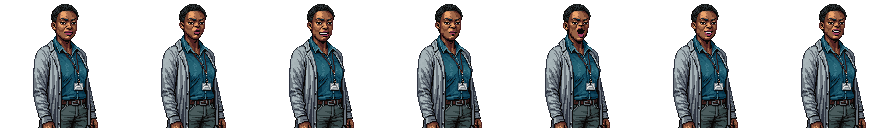
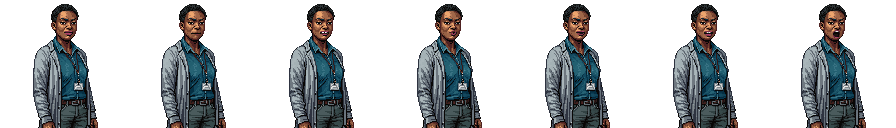
pixellab pipeline: inpaint mouth shapes on the bust for lip sync
visemes now defaults to --method inpaint: one /inpaint-image-pro-flash
call per named shape, masked to the mouth (intersected with the bust's
opaque pixels), so the nose, jaw and the mouth's position on a
three-quarter head are kept. /vocal-animation redrew the whole lower
face as if front-on. The mask is guessed from lip colour or read off a
gridded preview; pick --swap mixes shapes from re-rolled variants.

Bernie's viseme sheet regenerated this way (54 generations, plus a 6-generation trial).

diff --git a/tools/pixellab_pipeline.py b/tools/pixellab_pipeline.py
@@ -20,7 +20,8 @@ Everything for one character lives in a work directory (default tmp/pixellab/<na
   concept.png         the Gemini portrait this run started from
   bust/b01.png ...    stage 1 candidates, plus bust/contact.png
   talk/t01/f00.png .. stage 2 candidates (one folder per variant), plus talk/contact.png
-  visemes/m01/*.png   optional stage 2 alternative: named mouth shapes from /vocal-animation
+  visemes/i01/*.png   optional stage 2 alternative: named mouth shapes, inpainted on the mouth
+                      (visemes/m01 when made with --method vocal)
   character/c01/*.png stage 3 candidates (8 rotations each), plus character/contact.png
 
 Typical run (see .claude/skills/pixellab-character-pipeline/SKILL.md for the full workflow):
@@ -59,7 +60,7 @@ from datetime import datetime, timezone
 from pathlib import Path
 
 import requests
-from PIL import Image, ImageDraw
+from PIL import Image, ImageChops, ImageDraw
 
 API = "https://api.pixellab.ai/v2"
 REPO = Path(__file__).resolve().parent.parent
@@ -620,14 +621,22 @@ def head_box(bust, side):
 
 
 def cmd_visemes(args):
-    """Named mouth shapes (AA, EE, OO ...) from /vocal-animation, for comparison or lip sync.
+    """Named mouth shapes for lip sync: inpainted on the bust (default) or from /vocal-animation.
 
-    --crop sends only the head, so the face fills more of the frame the model sees. Each
-    returned mouth is pasted back into a full-size copy of the bust, so the results drop
-    straight into `pick ... --frames m01:<id>` like any other talk frame.
+    --method inpaint (default, variants iNN): one /inpaint-image-pro-flash call per shape,
+    masked to the mouth only, so the nose, jaw and the mouth's position on a turned head stay
+    exactly as drawn. About 6 generations per shape.
+
+    --method vocal (variants mNN): /vocal-animation redraws the whole lower face. It assumes a
+    face looking straight at the camera, so on three-quarter busts it tends to lose the nose
+    and move the mouth towards the centre. --crop sends only the head. Each returned mouth is
+    pasted back into a full-size copy of the bust, so the results drop straight into
+    `pick ... --frames m01:<id>` like any other talk frame.
     """
     run = Run(args.name, args.workdir).require()
     bust = Image.open(run.dir / "bust" / f"{run.picked('bust')}.png").convert("RGBA")
+    if args.method == "inpaint":
+        return visemes_inpaint(run, bust, args)
     crop = None
     if args.crop == "auto":
         crop = head_box(bust, args.crop_size)
@@ -652,22 +661,204 @@ def cmd_visemes(args):
     report_stage(run, "talk")
 
 
-def write_viseme_sheet(run, job, assets, backup, face=None):
+# What each shape must look like, matching the letter classes in lip-sync.js.
+MOUTH_SHAPES = {
+    "closed": "full lips pressed together, as when saying 'm', 'b' or 'p': both lips keep their colour "
+              "and thickness, meeting in one dark line, no gap or teeth",
+    "teeth": "lips parted to show the upper front teeth as a clear row of white pixels, lower lip tucked "
+             "just under them, as when saying 'f', 'v' or 's'",
+    "round": "lips pushed forward into a small rounded 'o', as when saying 'oo'; a small dark round opening, "
+             "narrower than the resting mouth",
+    "small_open": "lips parted by a small dark opening about two pixels tall, clearly more open than a "
+                  "closed mouth, no teeth showing",
+    "medium_open": "mouth half open as when saying 'eh': a dark mouth interior with a hint of upper teeth",
+    "wide_open": "mouth open wide as when saying 'ah': jaw dropped, a tall dark mouth interior, "
+                 "at most a sliver of upper teeth",
+}
+MOUTH_KEEP = ("Only the mouth changes. Keep the same lip colour, skin tone, outline and pixel-art shading; "
+              "the head is turned, so the mouth stays exactly where it is, not centred.")
+
+
+def suggest_mouth_box(bust):
+    """Guess the mouth mask from lip-coloured pixels (red/pink) in the upper half of the figure.
+
+    Only a starting point: dark or skin-toned lips aren't found, so always check the preview
+    and pass --mouth x0,y0,x1,y1 when it's wrong.
+    """
+    import numpy as np
+    a = np.asarray(bust, dtype=np.int32)
+    r, g, b, al = a[..., 0], a[..., 1], a[..., 2], a[..., 3]
+    rows = np.nonzero((al > 0).any(axis=1))[0]
+    if not len(rows):
+        return None
+    top = rows[0]
+    lips = (al > 0) & (r - g > 60) & (b - g > 5) & (r > 120)
+    lips[: top + 8] = False  # skip hair/forehead
+    lips[top + (rows[-1] - top) // 2:] = False  # upper half only: no ties, lanyards or badges
+    ys, xs = np.nonzero(lips)
+    if len(xs) < 4 or xs.max() - xs.min() > 24:
+        return None
+    return (int(xs.min()) - 2, int(ys.min()) - 1, int(xs.max()) + 3, int(ys.max()) + 4)
+
+
+def mouth_box_preview(run, bust, box, out_name="mouth_box_preview.png", outline=True):
+    """A gridded close-up around box, labelled with pixel coordinates, the box outlined as the mask."""
+    x0, y0, x1, y1 = box
+    pad, z = 12, 12
+    cx0, cy0 = max(0, x0 - pad), max(0, y0 - pad - 6)
+    cx1, cy1 = min(bust.width, x1 + pad), min(bust.height, y1 + pad)
+    crop = bust.crop((cx0, cy0, cx1, cy1)).resize(((cx1 - cx0) * z, (cy1 - cy0) * z), Image.NEAREST)
+    im = Image.new("RGBA", crop.size, "white")
+    im.paste(crop, (0, 0), crop)
+    d = ImageDraw.Draw(im)
+    for x in range(cx0, cx1 + 1):
+        if x % 5 == 0:
+            d.line([((x - cx0) * z, 0), ((x - cx0) * z, im.height)], fill=(0, 180, 255, 120))
+            d.text(((x - cx0) * z + 2, 2), str(x), fill=(255, 0, 0, 255))
+    for y in range(cy0, cy1 + 1):
+        if y % 5 == 0:
+            d.line([(0, (y - cy0) * z), (im.width, (y - cy0) * z)], fill=(0, 180, 255, 120))
+            d.text((2, (y - cy0) * z + 2), str(y), fill=(255, 0, 0, 255))
+    if outline:
+        d.rectangle([(x0 - cx0) * z, (y0 - cy0) * z, (x1 - cx0) * z - 1, (y1 - cy0) * z - 1],
+                    outline=(255, 0, 0, 255), width=2)
+    path = run.dir / "visemes" / out_name
+    path.parent.mkdir(parents=True, exist_ok=True)
+    im.save(path)
+    return path
+
+
+def mouth_mask(bust, box):
+    """White inside the box where the bust is opaque, so a box corner hanging over the
+    background can't gain stray pixels around the chin."""
+    mask = Image.new("L", bust.size, 0)
+    ImageDraw.Draw(mask).rectangle([box[0], box[1], box[2] - 1, box[3] - 1], fill=255)
+    return ImageChops.multiply(mask, bust.split()[3].point(lambda a: 255 if a else 0))
+
+
+def visemes_inpaint(run, bust, args):
+    if args.mouth:
+        box = tuple(int(v) for v in args.mouth.split(","))
+        how = "--mouth"
+    else:
+        box = suggest_mouth_box(bust)
+        how = "guessed from lip colour"
+        if not box:
+            # No red/pink lips (most of the cast): show a labelled grid over the lower face
+            # to read the mouth coordinates from, drawn with no mask.
+            hx0, hy0, hx1, hy1 = head_box(bust, 48)
+            grid = mouth_box_preview(run, bust, (hx0 + 12, hy0 + 12, hx1 - 12, hy1 - 6),
+                                     "face_grid.png", outline=False)
+            sys.exit(f"couldn't find the lips by colour. Read {grid} (pixel coordinates every 5px) "
+                     "and pass --mouth x0,y0,x1,y1: the lips plus 3-4 rows "
+                     "below them, the nostrils outside.")
+    preview = mouth_box_preview(run, bust, box)
+    print(f"mouth mask {box} ({how}); preview: {preview}\n"
+          "  check: lips and the few rows below them inside, nose tip and eyes outside.")
+    shapes = args.shapes.split(",") if args.shapes else list(MOUTH_SHAPES)
+    unknown = [s for s in shapes if s not in MOUTH_SHAPES]
+    if unknown:
+        sys.exit(f"unknown shape(s) {unknown}; choose from {list(MOUTH_SHAPES)}")
+    mask = mouth_mask(bust, box).convert("RGB")
+    subject = args.subject or "the same character"
+
+    def body(shape):
+        b = {"image": b64_image(bust), "mask_image": b64_image(mask),
+             "description": f"{subject}, {MOUTH_SHAPES[shape]}. {MOUTH_KEEP}",
+             "output_method": "Modify current layer", "no_background": False}
+        if args.seed is not None:
+            b["seed"] = args.seed
+        return b
+
+    if args.dry_run:
+        return dry_run("/inpaint-image-pro-flash", body(shapes[0]), n=len(shapes),
+                       note=f"one call per shape ({', '.join(shapes)}), ~6 generations each")
+    api = PixelLab()
+    vid = run.next_ids("visemes", "i", 1)[0]
+    ids = {}
+    for shape in shapes:  # 6 jobs fit in the 8 concurrent slots
+        ids[shape] = api.post("/inpaint-image-pro-flash", body(shape))["background_job_id"]
+    job = run.add_job(stage="visemes", variant=vid, endpoint="/inpaint-image-pro-flash",
+                      job_id=",".join(ids.values()), job_ids=ids,
+                      params={"mouth": list(box), "shapes": shapes, "subject": subject, "seed": args.seed})
+    print(f"submitted {vid}: {len(ids)} inpaint jobs ({', '.join(shapes)})")
+    collect(run, api, "visemes")
+    report_stage(run, "talk")
+
+
+def save_inpaint_visemes(run, api, job):
+    """Wait for each shape's job; keep only the masked box, pasted onto the bust.
+
+    Pro Flash preserves unmasked pixels already; the paste makes that a guarantee, so the
+    sheet can never pick up a stray change elsewhere on the face.
+    """
+    out = run.dir / "visemes" / job["variant"]
+    out.mkdir(parents=True, exist_ok=True)
+    bust = Image.open(run.dir / "bust" / f"{run.picked('bust')}.png").convert("RGBA")
+    x0, y0, x1, y1 = job["params"]["mouth"]
+    total, outputs, order = 0.0, [], []
+
+    def one(item):
+        shape, jid = item
+        last, usage = api.wait_job(jid, f"{job['variant']}:{shape}")
+        return shape, decode_image(find_images(last)[0]).convert("RGBA"), usage
+
+    with concurrent.futures.ThreadPoolExecutor(MAX_PARALLEL) as pool:
+        results = {s: (im, u) for s, im, u in pool.map(one, job["job_ids"].items())}
+    for shape in job["params"]["shapes"]:
+        im, usage = results[shape]
+        if im.size != bust.size:
+            raise RuntimeError(f"{shape} came back {im.size}, bust is {bust.size}")
+        (out / "raw").mkdir(exist_ok=True)
+        im.save(out / "raw" / f"{shape}.png")
+        full = bust.copy()
+        full.paste(im, (0, 0), mouth_mask(bust, (x0, y0, x1, y1)))
+        p = out / f"{shape}.png"
+        full.save(p)
+        outputs.append(str(p.relative_to(run.dir)))
+        order.append(shape)
+        total += (usage or {}).get("generations") or 0
+    job["outputs"] = outputs
+    job["viseme_order"] = ["rest"] + order
+    record_usage(job, {"type": "generations", "generations": total})
+
+
+def write_viseme_sheet(run, job, assets, backup, face=None, swaps=None):
     """Install <name>_visemes.png (one row of mouth shapes) and <name>_visemes.json.
 
     Like the 2x2 talk sheet, every cell is the picked bust with only the face box replaced,
     so the body can't jitter between shapes. 'rest' is the bust itself. The engine reads it
     through the NPC's "spriteVisemes" field (see docs/SPRITE_SYSTEM.md).
+
+    For inpaint variants the box defaults to the mouth mask. swaps ("round=i02,teeth=i03")
+    take single shapes from other inpaint variants, so one bad shape can be redone alone.
     """
     sys.path.insert(0, str(TALK_SCRIPTS))
     import numpy as np
     from build_talk_sheet import auto_face_box
     bust = Image.open(run.dir / "bust" / f"{run.picked('bust')}.png").convert("RGBA")
+    inpaint = job.get("endpoint") == "/inpaint-image-pro-flash"
     order = job.get("viseme_order") or [Path(p).stem for p in job["outputs"]]
+    if inpaint:
+        order = ["rest"] + [s for s in MOUTH_SHAPES if s in order or (swaps and f"{s}=" in swaps)]
     frames = {Path(p).stem: Image.open(run.dir / p).convert("RGBA") for p in job["outputs"]}
+    sources = {s: job["variant"] for s in frames}
+    for spec in filter(None, (swaps or "").split(",")):
+        shape, _, other = spec.partition("=")
+        oj = next((j for j in run.jobs("visemes", "completed") if j["variant"] == other), None)
+        path = run.dir / "visemes" / other / f"{shape}.png"
+        if not oj or not path.exists():
+            sys.exit(f"--swap {spec}: no completed variant {other} with a '{shape}' shape")
+        if inpaint and oj.get("params", {}).get("mouth") != job["params"]["mouth"]:
+            print(f"  warning: {other} used mouth mask {oj['params'].get('mouth')}, "
+                  f"{job['variant']} used {job['params']['mouth']}")
+        frames[shape] = Image.open(path).convert("RGBA")
+        sources[shape] = other
     base = np.asarray(bust, dtype=np.int16)
     if face:
         box = tuple(int(v) for v in face.split(","))
+    elif inpaint:
+        box = tuple(job["params"]["mouth"])
     else:
         box = (mouth_face_box([f for n, f in frames.items() if n != "rest"])
                or auto_face_box(base, [np.asarray(f, dtype=np.int16) for f in frames.values()]))
@@ -682,9 +873,13 @@ def write_viseme_sheet(run, job, assets, backup, face=None):
     png = backup(assets / f"{run.name}_visemes.png")
     sheet.save(png)
     meta = backup(assets / f"{run.name}_visemes.json")
-    meta.write_text(json.dumps({"frameSize": size, "visemes": order,
-                                "source": f"pixellab /vocal-animation {job['job_id']} "
-                                          f"(crop {job['params'].get('crop')}), face box {list(map(int, box))}"},
+    if inpaint:
+        source = (f"pixellab /inpaint-image-pro-flash, mouth mask {list(map(int, box))}, "
+                  + ", ".join(f"{s}:{sources[s]}" for s in order if s in sources))
+    else:
+        source = (f"pixellab /vocal-animation {job['job_id']} "
+                  f"(crop {job['params'].get('crop')}), face box {list(map(int, box))}")
+    meta.write_text(json.dumps({"frameSize": size, "visemes": order, "source": source},
                                indent=2) + "\n")
     print(f"face box {tuple(map(int, box))}; wrote {png} ({len(order)} shapes: {', '.join(order)}) and {meta.name}")
     print(f'scenario NPC: "spriteVisemes": "assets/characters/{run.name}_visemes.png"  (keep spriteTalk as the fallback)')
@@ -1336,7 +1531,9 @@ def collect(run, api, stage=None):
 
     def one(job):
         try:
-            if job["stage"] == "visemes":
+            if job.get("endpoint") == "/inpaint-image-pro-flash":
+                save_inpaint_visemes(run, api, job)
+            elif job["stage"] == "visemes":
                 save_visemes(run, job, poll_visemes(api, job["job_id"]))
             else:
                 last, usage = api.wait_job(job["job_id"], job["variant"])
@@ -1370,7 +1567,7 @@ def resolve_frame(run, spec, default_variant):
     """'5' -> talk/<default>/f05.png;  't02:3' -> talk/t02/f03.png;  'm01:AA' -> visemes/m01/AA.png"""
     variant, _, frame = spec.rpartition(":")
     variant = variant or default_variant
-    folder = run.dir / ("visemes" if variant.startswith("m") else "talk") / variant
+    folder = run.dir / ("visemes" if variant[:1] in ("m", "i") else "talk") / variant
     path = folder / (f"f{int(frame):02d}.png" if frame.isdigit() else f"{frame}.png")
     if not path.exists():
         sys.exit(f"no frame {spec} ({path})")
@@ -1440,8 +1637,8 @@ def cmd_pick(args):
         print(f"next: pixellab_pipeline.py character {run.name} --variants 1")
 
     elif stage == "visemes":
-        write_viseme_sheet(run, job, assets, backup, args.face)
-        run.state["picks"]["visemes"] = vid
+        write_viseme_sheet(run, job, assets, backup, args.face, args.swap)
+        run.state["picks"]["visemes"] = vid + (f" ({args.swap})" if args.swap else "")
 
     elif stage == "character":
         run.state["picks"]["character"] = {"variant": vid, "character_id": job["character_id"]}
@@ -1554,11 +1751,21 @@ def main():
     p.add_argument("--action", default=DEFAULT_TALK_ACTION)
     p.set_defaults(func=cmd_talk)
 
-    p = sub.add_parser("visemes", help="stage 2 alternative: named mouth shapes via /vocal-animation")
+    p = sub.add_parser("visemes", help="stage 2 alternative: named mouth shapes for lip sync "
+                                        "(inpaint: ~6 generations per shape; vocal: ~3-5 in all)")
     p.add_argument("name")
-    p.add_argument("--count", type=int, choices=[3, 5, 7, 12], default=7)
-    p.add_argument("--mood", default="neutral", choices=["neutral", "happy", "angry", "sad", "surprised"])
-    p.add_argument("--crop", help="send only the head: 'auto' or x0,y0,x1,y1 (default: whole bust)")
+    p.add_argument("--method", choices=["inpaint", "vocal"], default="inpaint",
+                   help="inpaint (default): mask the mouth and redraw only it, once per shape. "
+                        "vocal: /vocal-animation, which suits faces looking straight ahead")
+    p.add_argument("--mouth", help="inpaint: x0,y0,x1,y1 mouth mask on the bust (default: guessed from "
+                                   "lip colour). Check visemes/mouth_box_preview.png")
+    p.add_argument("--shapes", help=f"inpaint: comma list, default all of {','.join(MOUTH_SHAPES)}")
+    p.add_argument("--subject", help="inpaint: who is speaking, e.g. 'a woman in her fifties' "
+                                     "(default 'the same character')")
+    p.add_argument("--seed", type=int)
+    p.add_argument("--count", type=int, choices=[3, 5, 7, 12], default=7, help="vocal only")
+    p.add_argument("--mood", default="neutral", choices=["neutral", "happy", "angry", "sad", "surprised"], help="vocal only")
+    p.add_argument("--crop", help="vocal only: send only the head: 'auto' or x0,y0,x1,y1 (default: whole bust)")
     p.add_argument("--crop-size", type=int, default=64, help="square side for --crop auto (default 64)")
     p.add_argument("--dry-run", action="store_true")
     p.set_defaults(func=cmd_visemes)
@@ -1619,7 +1826,8 @@ def main():
     p.add_argument("stage", choices=["bust", "talk", "visemes", "character"])
     p.add_argument("variant", help="e.g. b03, t01, m01, c01")
     p.add_argument("--frames", help="talk only: three open-mouth frames, e.g. 3,5,7 or t01:3,t02:6,m01:AA (default auto)")
-    p.add_argument("--face", help="talk only: x0,y0,x1,y1 face box override passed to build_talk_sheet.py")
+    p.add_argument("--face", help="talk/visemes: x0,y0,x1,y1 face box override (inpaint visemes default to the mouth mask)")
+    p.add_argument("--swap", help="visemes only: take single shapes from other variants, e.g. round=i02,teeth=i03")
     p.set_defaults(func=cmd_pick)
 
     for name, fn, hlp in [("status", cmd_status, "show jobs, picks and the next stage"),

diff --git a/.claude/skills/pixellab-character-pipeline/SKILL.md b/.claude/skills/pixellab-character-pipeline/SKILL.md
@@ -11,7 +11,7 @@ One script, [tools/pixellab_pipeline.py](../../../tools/pixellab_pipeline.py), d
 | ------------------ | ---------------------- | ------------------------------------------------------------- | ------------------------------------------------------------ |
 | 1 bust             | `bust`                 | `/create-image-pixflux` (init image = Gemini art, same prompt) | `<name>_talk_init.png` 128×128                               |
 | 2a talk            | `talk`                 | `/animate-with-text-v3` (bust as first *and* last frame)      | `<name>_talk.png` 2×2 sheet                                  |
-| 2b lip sync        | `visemes`              | `/vocal-animation` (named mouth shapes)                       | `<name>_visemes.png` + `.json`                               |
+| 2b lip sync        | `visemes`              | `/inpaint-image-pro-flash` on the mouth (or `/vocal-animation`) | `<name>_visemes.png` + `.json`                               |
 | 3 walk character   | `character`            | `/create-character-pro` (`create_from_concept`, style character) | a PixelLab character id                                   |
 | 4 animations       | `animate`              | `/characters/animations` (template mode)                      | the standard 6 × 8 directions on that character              |
 | 5 review / repair  | `qa`, `fix`            | `/edit-images-v2` only for `fix --use ai`                     | contact sheets; committed frame overrides                    |
@@ -21,7 +21,7 @@ One script, [tools/pixellab_pipeline.py](../../../tools/pixellab_pipeline.py), d
 
 ## Rules
 
-- Check `balance` first. Tell the user the planned spend before any paid command, and get a yes before anything costing about 20 generations (`character`, `fix --use ai`). Every paid command takes `--dry-run`.
+- Check `balance` first. Tell the user the planned spend before any paid command, and get a yes before anything costing about 20 generations or more (`character`, `fix --use ai`, a full inpaint `visemes` set). Every paid command takes `--dry-run`.
 - At every choice point, **Read the contact sheet image yourself**. Show it to the user with your assessment, then wait for their pick unless they said to choose.
 - Never delete PixelLab characters, and never overwrite a game asset silently. `pick` and `import --force` back up whatever they replace.
 - A killed run leaves jobs `submitted`. `collect <name>` finishes them without paying again (for `animate`, just rerun it; it resumes from its in-flight log). Don't rerun a paid stage command to recover.
@@ -64,12 +64,17 @@ python3 tools/pixellab_pipeline.py pick <name> talk t01 --frames 2,4,5     # or 
 The engine supports an NPC field `"spriteVisemes": "assets/characters/<key>_visemes.png"`. While TTS plays, the portrait shows a mouth shape for each letter group of the spoken line, stretched to the audio's length. It falls back to `spriteTalk` if the files are missing (details in docs/SPRITE_SYSTEM.md). The text-to-mouth rules mirror PixelLab's free `/lip-sync` plan, ported to JavaScript, so there are no runtime API calls.
 
 ```bash
-python3 tools/pixellab_pipeline.py visemes <name> --crop auto      # ~3-5 generations, ~6 minutes
-python3 tools/pixellab_pipeline.py pick <name> visemes m01
+python3 tools/pixellab_pipeline.py visemes <name> --dry-run --subject "a woman in her fifties"   # free: writes the mask preview
+python3 tools/pixellab_pipeline.py visemes <name> --subject "a woman in her fifties"             # 6 shapes, ~36 generations, ~3 minutes
+python3 tools/pixellab_pipeline.py visemes <name> --mouth 63,30,74,38 --shapes teeth,small_open  # redo weak shapes only -> i02
+python3 tools/pixellab_pipeline.py pick <name> visemes i01 --swap teeth=i02,small_open=i02
 ```
 
-- `--crop auto` sends a 64×64 head crop, so the face fills the model's frame. It gives bigger, clearer mouths and changes only the head. Without it the whole bust is re-rendered with subtler mouths. Both kinds of run appear in the talk contact sheet with mouth-zoom rows. Compare them there.
-- `pick ... visemes` writes `<name>_visemes.png` (one row of 128px cells, `rest` = the bust itself) and `<name>_visemes.json` (the column names). Only the face box is pasted, as with the talk sheet.
+**Use the default `--method inpaint`.** It masks the mouth on the picked bust and asks `/inpaint-image-pro-flash` for one named shape per call (prompts in `MOUTH_SHAPES`, matched to the letter classes in lip-sync.js). Every pixel outside the mask is kept, so the nose, jaw and the mouth's off-centre position on a three-quarter head survive. `--method vocal` (`/vocal-animation`, variants `mNN`) is cheaper (~3–5 generations for all seven) but assumes a face looking straight at the camera: on our three-quarter busts it lost the nose and pulled the mouth up and towards the centre (see Bernie's `replaced/` sheets).
+
+- **The mask.** Without `--mouth` it is guessed from red/pink lip pixels in the upper half of the figure. Always Read `visemes/mouth_box_preview.png` (gridded, pixel coordinates labelled) before paying: the lips and 3–4 rows below them inside for the dropped jaw, the nostrils outside. Dark or skin-toned lips (six of the eight m02 busts) aren't found by colour: the command then stops and writes `visemes/face_grid.png`; Read it and pass `--mouth x0,y0,x1,y1` (Gary: about `61,34,73,41`). Deriving the mouth from the old talk sheet was tried and rejected: older sheets change more than the mouth, so it landed on noses and sunglasses. The mask is limited to the bust's opaque pixels, so a corner over the background can't grow stray pixels by the chin.
+- **What to expect** (Bernie, first pass): `round`, `medium_open`, `wide_open` good first time; `teeth` and `small_open` came back too close to rest and were fine on a second take; `closed` goes to a thin pressed line without lip colour on every take, which reads acceptably for m/b/p. Judge them in a mouth close-up **over a dark background** too, since the dialogue panel is dark.
+- `pick ... visemes` writes `<name>_visemes.png` (one row of 128px cells, `rest` = the bust itself) and `<name>_visemes.json` (the column names and which variant each shape came from). The game looks columns up by name, so order doesn't matter. For inpaint variants only the mask is pasted; for vocal ones, the face box (see above).
 - Add `spriteVisemes` to the NPC and keep `spriteTalk` as the fallback. Only edit scenarios when the user asked.
 - Lip sync follows TTS audio, so an NPC whose lines get no audio stays on `rest`. Co-speakers (an NPC with a voice but no `storyPath`, whose lines are inside another NPC's story, e.g. Netherton in HaX's briefing) are validated against every Ink story in the mission. Before that fix they were refused with a 403 and stayed silent.
 
@@ -144,7 +149,8 @@ After changing a scenario, run the validator (validate-scenario skill). If the u
 | --------------------------------- | -------------------- |
 | bust (pixflux)                    | 1 per variant        |
 | talk (animate v3, 8 frames)       | 2 per variant        |
-| visemes (vocal-animation, 7)      | ~3–5 per run (from the balance; the API doesn't report it) |
+| visemes, inpaint (default)        | 6 per shape (~36 for all six) |
+| visemes, vocal-animation (7)      | ~3–5 per run (from the balance; the API doesn't report it) |
 | character (Pro)                   | 20–40 per variant    |
 | animate (template)                | 1 per direction      |
 | fix --use ai (edit-images-v2)     | 20 per call (up to 16 frames) |
